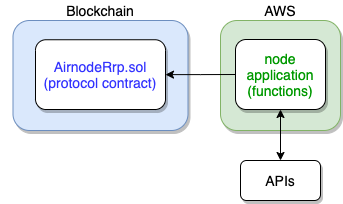
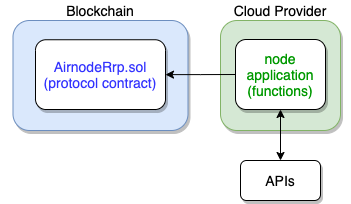
/airnode/v0.3/README adjusted to include GCP

diff --git a/docs/airnode/v0.3/README.md b/docs/airnode/v0.3/README.md
@@ -9,12 +9,12 @@ title: The Airnode
 
 Airnode is a serverless oracle node implemented with a "set and forget"
 philosophy. Airnode is composed of two parts: the off-chain **Airnode** (a.k.a.
-"the node") deployed as self hosted or cloud provider functions (e.g., AWS) and
-the on-chain **protocol contract** AirnodeRrp.sol.
+"the node") deployed as self hosted or cloud provider functions (e.g., AWS or
+GCP) and the on-chain **protocol contract** AirnodeRrp.sol.
 
 > ![2-parts](./assets/images/summary-airnode-2-parts.png) <br/><br/>
 >
-> <p class="diagram-line" style="color:black;">Airnode is composed of two parts: the off-chain Airnode (a.k.a. "the node") deployed usually as cloud provider functions (e.g., AWS) and the on-chain protocol contract  AirnodeRrp.sol.</p>
+> <p class="diagram-line" style="color:gray;">Airnode is composed of two parts: the off-chain Airnode (a.k.a. "the node") deployed usually as cloud provider functions (e.g., AWS or GCP) and the on-chain protocol contract  AirnodeRrp.sol.</p>
 
 At its core, **Airnode** brings the ability for API providers to easily run
 their own _oracle nodes_. This allows them to provide their data on-chain,
